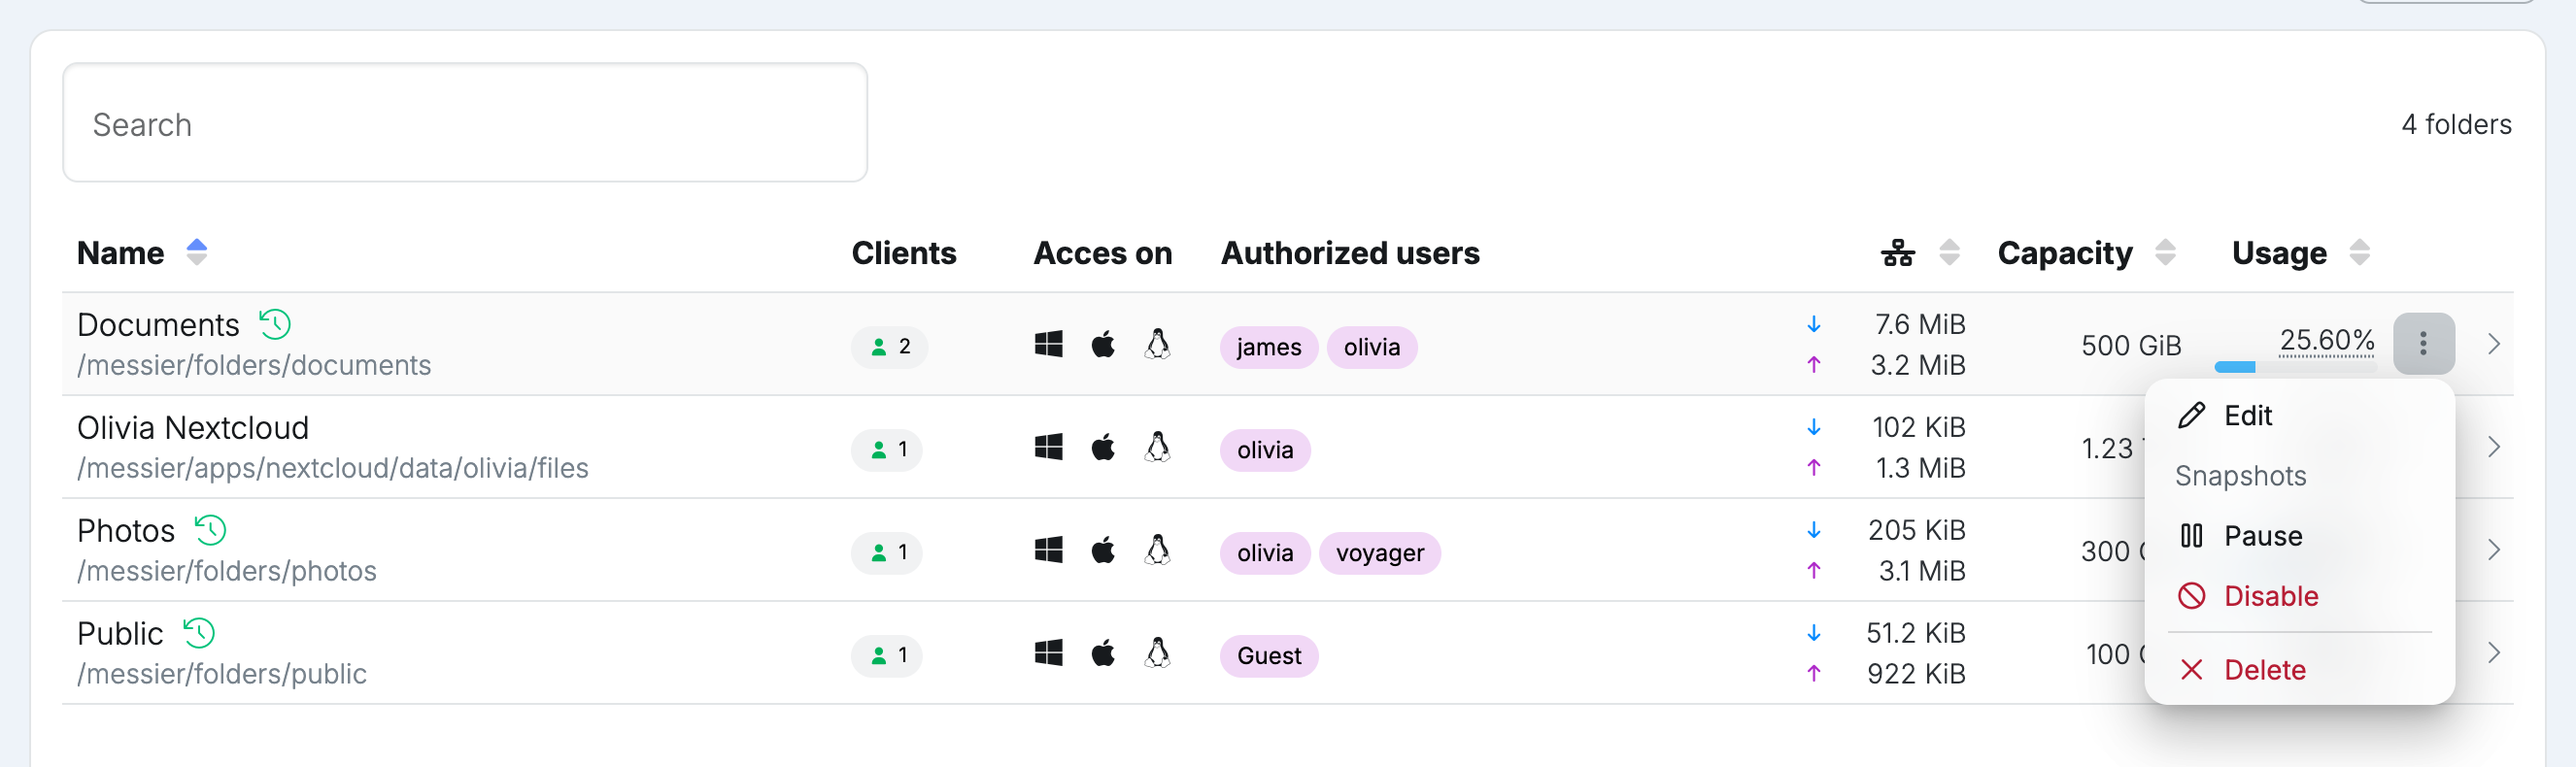
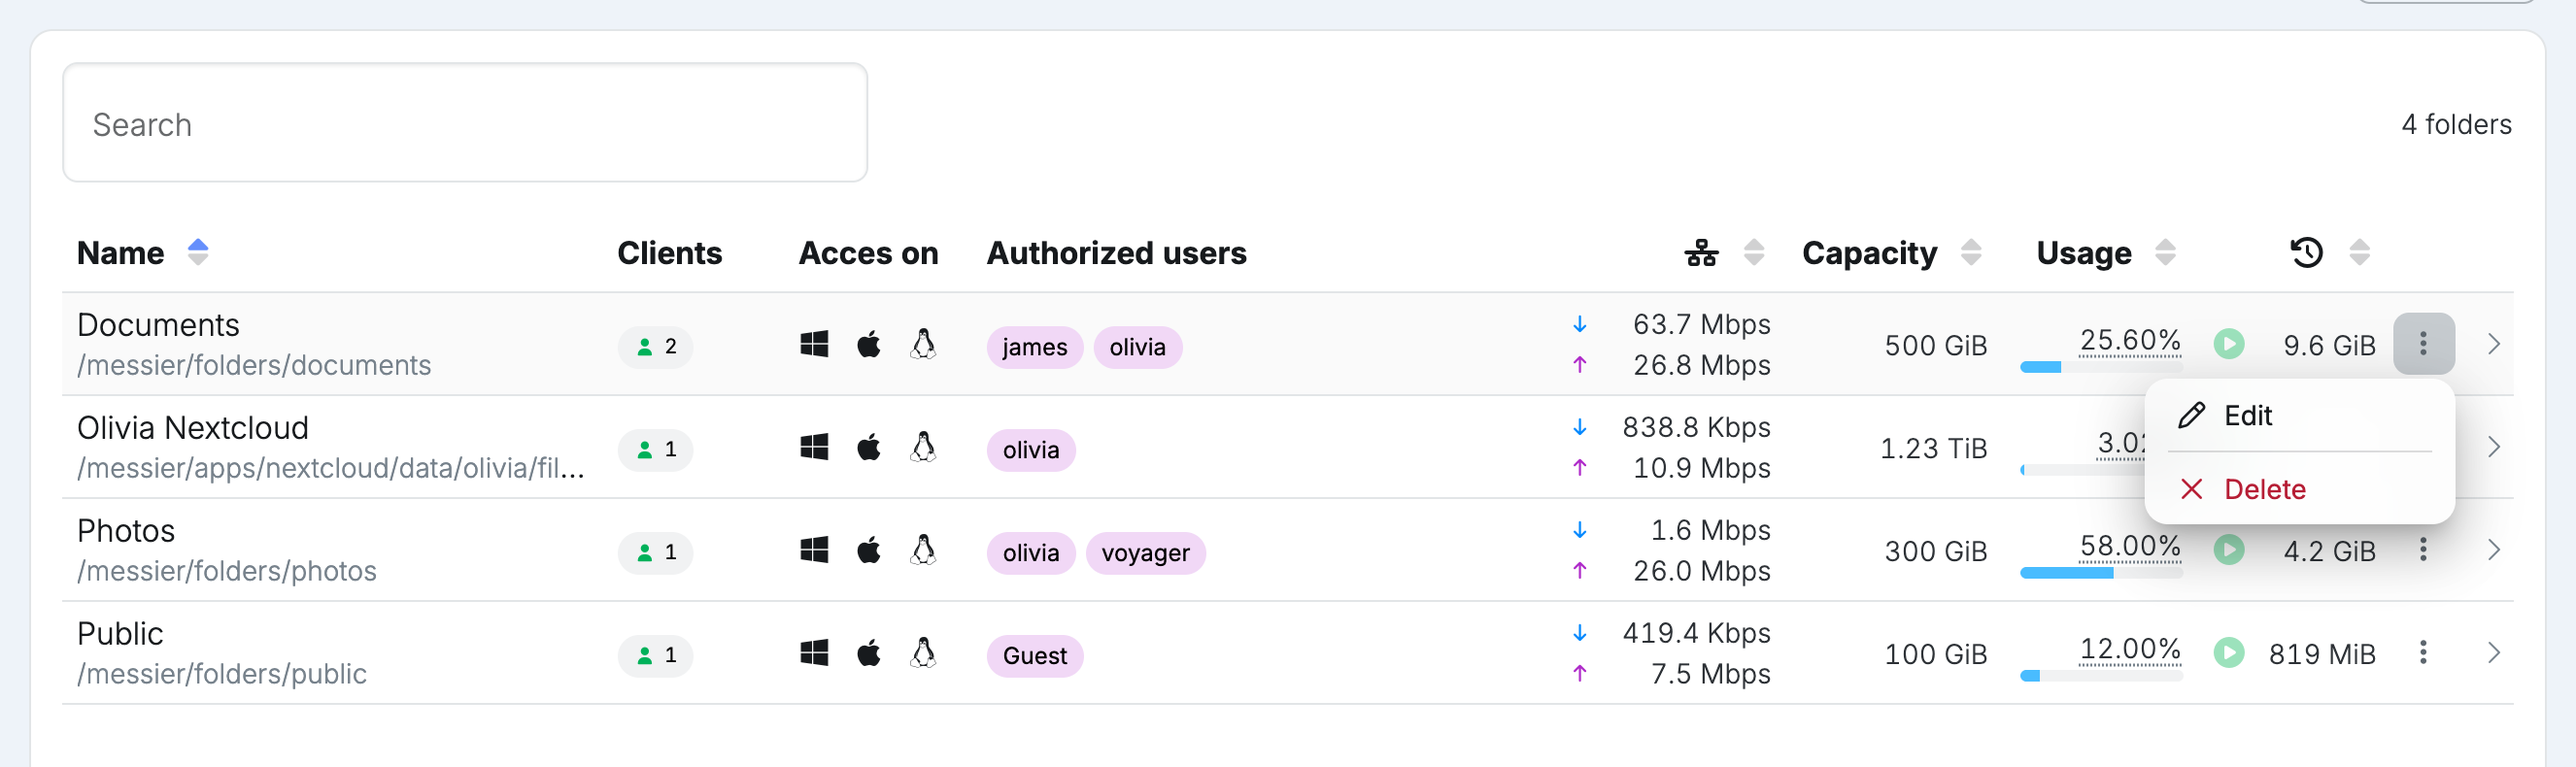
docs(folders): snapshot pages for folders like apps, with new screenshots of the whole section

diff --git a/src/content/docs/management/resources/folders/index.md b/src/content/docs/management/resources/folders/index.md
@@ -2,16 +2,17 @@
 title: Folders
 description: Shared folders on the node, for the computers on your local network.
 sidebar:
-  order: 6
+  label: Managing folders
+  order: 4
 ---
 
 **Folders** are shared folders on the node that the computers on your local network can open, whether they run Windows, macOS or Linux. Users reach them with their node username and password, unless the folder is open to everyone on the network.
 
-![The Folders page](../../../../assets/management/folders.png)
+![The Folders page](../../../../../assets/management/folders.png)
 
-For each folder, the list shows its name and path, how many computers have it open right now, the users who can reach it, how much data it receives and sends per second, its capacity and how much of it is used. Hover over the number of computers to see who is connected and from which address. The clock icon next to a name shows the state of the folder's [snapshots](#history); hover over it for details. Sort the list by name, traffic, capacity or usage with the arrows in the column headers, and use **Search** to find a folder by its name, path or users.
+For each folder, the list shows its name and path, how many computers have it open right now, the users who can reach it, how much data it receives and sends per second, its capacity, how much of it is used and its [snapshots](/management/resources/folders/snapshots/). Hover over the number of computers to see who is connected and from which address. The icon in the snapshots column says whether snapshots are enabled, paused or disabled, followed by the space they take up; hover over it for details. Sort the list by name, traffic, capacity, usage or snapshots with the arrows in the column headers, and use **Search** to find a folder by its name, path or users.
 
-![Who has a folder open](../../../../assets/management/folders-clients.png)
+![Who has a folder open](../../../../../assets/management/folders-clients.png)
 
 ## Opening a folder
 
@@ -23,7 +24,7 @@ Select the Windows, Apple or Linux icon next to a folder to copy its address for
 
 The address is the [virtual IP](/setup/interface/), the address the node shares with its cluster.
 
-![Copying a folder's address](../../../../assets/management/folders-address.png)
+![Copying a folder's address](../../../../../assets/management/folders-address.png)
 
 When asked, enter your node username and password. A folder marked **Guest** has open access: anyone on your local network can open it and change its files, without a username or password.
 
@@ -51,15 +52,15 @@ Select **New folder**, then enter:
 - **Name:** what the folder is called.
 - **Authorized users:** the users who can reach it. Leave them all unchecked for **Guest**, open access for anyone on your local network.
 - **Capacity:** how much space the folder can take up, in GiB. Only for a new share.
-- **Take snapshots:** keep a [history](#history) of the folder's files. Only for a new share.
+- **Take snapshots:** keep [snapshots](/management/resources/folders/snapshots/) of the folder's files. Only for a new share.
 
-![Adding a folder](../../../../assets/management/folder-create.png)
+![Adding a folder](../../../../../assets/management/folder-create.png)
 
 ### Sharing an existing path
 
 The existing paths are places on the node that already hold files, such as a Nextcloud user's files or a Nextcloud group folder. Sharing one lets you open those files from your computers too.
 
-![Sharing a Nextcloud user's files](../../../../assets/management/folder-create-existing.png)
+![Sharing a Nextcloud user's files](../../../../../assets/management/folder-create-existing.png)
 
 Such a folder has no capacity of its own. It shares the space of the place it lives in, which is the capacity the list shows, while its usage counts only its own files.
 
@@ -67,19 +68,19 @@ Such a folder has no capacity of its own. It shares the space of the place it li
 
 Select a folder in the list to see it in detail.
 
-![A folder in detail](../../../../assets/management/folder-details.png)
+![A folder in detail](../../../../../assets/management/folder-details.png)
 
 - **Usage:** the folder's capacity, how much of it is used and how much is free. **Space saved** shows how much space compression saves. For a folder with snapshots, the bar splits the used space into the folder's **Data** and its **Snapshots**.
 - **Authorized users:** the users who can reach the folder, each with the icons that copy the folder's address for Windows, Apple or Linux. The Apple and Linux addresses include the user's name.
 - **Clients:** the computers that have the folder open right now, with the user, the computer's address and how much data the folder receives from it and sends to it per second.
 
-The **Snapshots** tab shows the state of the folder's [snapshots](#history) and how many it has. Select the arrow in the top left corner to go back to the list.
+The **Snapshots** tab shows the folder's [snapshots](/management/resources/folders/snapshots/) and how many it has. Select the arrow in the top left corner to go back to the list.
 
 ## Editing or deleting a folder
 
 Open a folder's menu in the list:
 
-![A folder's menu](../../../../assets/management/folders-menu.png)
+![A folder's menu](../../../../../assets/management/folders-menu.png)
 
 - **Edit:** change the authorized users, or the capacity of a new share. The name and path stay the same.
 - **Delete:** permanently delete the folder and every file in it.
@@ -87,32 +88,16 @@ Open a folder's menu in the list:
 
 In a folder's details, the pen edits the folder and the menu next to it deletes or removes it.
 
-![Editing a folder](../../../../assets/management/folder-edit.png)
+![Editing a folder](../../../../../assets/management/folder-edit.png)
 
 While a change is being applied, a spinning gear takes the place of the menu.
 
-## History
+## Snapshots
 
-A new share is part of the pool's [snapshots](/management/system/storage/#usage), its automatic history of your files, unless **Take snapshots** was cleared when it was added. The clock icon next to its name is green while snapshots are enabled, orange while they are paused and grey when they are disabled.
-
-To change that, open the folder's menu and choose under **Snapshots**:
-
-- **Pause:** stop taking new snapshots. The ones already taken are kept.
-- **Disable:** stop taking snapshots and delete the ones already taken, after you confirm.
-- **Resume** or **Enable:** take snapshots again.
-
-The same choices are buttons on the **Snapshots** tab of the folder's details.
-
-![A folder's snapshots](../../../../assets/management/folder-snapshots.png)
-
-:::caution
-Disabling snapshots permanently deletes every snapshot of the folder. Without them, files that are deleted, overwritten or encrypted by mistake cannot be recovered. To keep the existing snapshots, pause them instead.
-:::
-
-A folder on an existing path has no snapshots of its own. Its history is that of the place it lives in.
+A new share keeps snapshots of its own, unless **Take snapshots** was cleared when it was added. A folder on a Nextcloud path has Nextcloud's snapshots, and its files can be searched, browsed and restored from the folder itself. See [Snapshots](/management/resources/folders/snapshots/).
 
 ## On the Dashboard
 
 The **Dashboard** lists the folders too, with a bar showing how full each one is.
 
-![Folders on the Dashboard](../../../../assets/management/folders-dashboard.png)
+![Folders on the Dashboard](../../../../../assets/management/folders-dashboard.png)

diff --git a/src/content/docs/management/resources/folders/snapshots/index.md b/src/content/docs/management/resources/folders/snapshots/index.md
@@ -1,0 +1,57 @@
+---
+title: Snapshots
+description: A folder's snapshots, which folders have them, and getting files back from a Nextcloud user's folder.
+sidebar:
+  label: Restore points
+  order: 5
+---
+
+A snapshot is a read-only copy of a folder's files as they were at one moment. The node takes them by itself and removes old ones, following the pool's [snapshot schedule](/management/system/storage/#usage). A snapshot only takes up space for what has changed since it was taken, so keeping many of them costs little.
+
+Open a folder's details and select **Snapshots**.
+
+## Snapshotting
+
+The top of the tab says whether the node takes snapshots of the folder, and how many of each kind it keeps. The dot on the **Snapshots** tab and the icon in the list show the same state: green for enabled, orange for paused and grey for disabled.
+
+Where the snapshots come from depends on the folder.
+
+### A new share
+
+A folder added as a new share has snapshots of its own. The buttons next to the state change them:
+
+- **Pause:** stop taking new snapshots. The ones already taken are kept.
+- **Disable:** stop taking snapshots and delete the ones already taken, after you confirm.
+- **Resume** or **Enable:** take snapshots again.
+
+![The Documents folder's snapshots](../../../../../../assets/management/folder-snapshots.png)
+
+:::caution
+Disabling snapshots permanently deletes every snapshot of the folder. Without them, files that are deleted, overwritten or encrypted by mistake cannot be recovered. To keep the existing snapshots, pause them instead.
+:::
+
+### A Nextcloud user's folder
+
+A folder that shares a Nextcloud user's files has Nextcloud's snapshots. The tab shows Nextcloud's state, says it follows Nextcloud, and has no buttons: change it in [Nextcloud's snapshots](/management/resources/apps/snapshots/#snapshotting).
+
+![The snapshots of Olivia's Nextcloud folder](../../../../../../assets/management/folder-share-snapshots.png)
+
+Below the state are Nextcloud's restore points, with the same [timeline](/management/resources/apps/snapshots/#timeline) as Nextcloud's own tab. Choose a restore point by its dot, by dragging the slider, or with **Newer** and **Older**.
+
+A folder that shares a Nextcloud group folder shows Nextcloud's state too, but its files can only be searched, browsed and restored from [Nextcloud's snapshots](/management/resources/apps/snapshots/#getting-files-back).
+
+### Downloads
+
+A folder that shares Downloads has no snapshots.
+
+## Getting files back
+
+From a Nextcloud user's folder, the files in its restore points can be searched, browsed and restored, and everything stays inside that folder: the other users' files, the trash and the group folders do not show up.
+
+| You know | Start here |
+| --- | --- |
+| Roughly when things were still right | [Browse files](/management/resources/folders/snapshots/browse/) of that restore point |
+| The name of the file, but not when it went missing | [Search](/management/resources/folders/snapshots/search/) every restore point at once |
+| Which version you want | [Restore](/management/resources/folders/snapshots/restore/) it, or download it to your computer |
+
+A folder does not roll back. To put all of Nextcloud back, see [Rolling back](/management/resources/apps/snapshots/rollback/).

diff --git a/src/content/docs/management/resources/folders/snapshots/restore.md b/src/content/docs/management/resources/folders/snapshots/restore.md
@@ -1,0 +1,22 @@
+---
+title: Restoring files
+description: Putting earlier and deleted files back into a Nextcloud user's folder.
+sidebar:
+  order: 8
+---
+
+Restoring copies files out of a restore point and back into the folder, where they show up in Nextcloud by themselves. From a folder, files can only be restored into that same folder or the folders inside it.
+
+## Restoring one file
+
+In the [search results](/management/resources/folders/snapshots/search/), select the restore button next to a version. **Restore to** starts at the folder, with the folder the file was in already selected.
+
+![Restoring Budget 2026.xlsx to Documents](../../../../../../assets/management/folder-share-snapshots-restore.png)
+
+If the file was not there anymore, it is restored straight away. If a file with that name is there, you choose to [keep both or overwrite](/management/resources/apps/snapshots/restore/#the-folder-already-has-a-file-with-that-name).
+
+## Restoring a selection
+
+In [Browse files](/management/resources/folders/snapshots/browse/), select what you want and then **Restore**. Choose a folder inside the folder and select **Restore**. Everything arrives there in a new folder of its own, named after the restore point's date, as described in [Restoring a selection](/management/resources/apps/snapshots/restore/#restoring-a-selection).
+
+Both ways can also [restore to a new folder](/management/resources/apps/snapshots/restore/#restoring-to-a-new-folder).

diff --git a/src/content/docs/management/resources/folders/snapshots/browse.md b/src/content/docs/management/resources/folders/snapshots/browse.md
@@ -1,0 +1,18 @@
+---
+title: Browsing files
+description: Looking inside a restore point of a Nextcloud user's folder, and selecting files to download or restore.
+sidebar:
+  order: 6
+---
+
+**Browse files** opens a Nextcloud user's folder as it was at one restore point.
+
+1. Open the folder's details and select **Snapshots**.
+2. Choose a restore point on the timeline.
+3. Select **Browse files**.
+
+![Olivia's Documents as they were on 1 August](../../../../../../assets/management/folder-share-snapshots-browse.png)
+
+It opens at the folder itself, with its name at the start of the path, and stays inside it: there is no way up to the other users. Paths further down, such as where a moved file is now, start with the folder's name too.
+
+Everything else works as in Nextcloud's **Browse files**: the **Now** column with what [changed since](/management/resources/apps/snapshots/browse/#what-changed-since-then), the [filter](/management/resources/apps/snapshots/browse/#showing-only-what-changed) for what changed, [selecting](/management/resources/apps/snapshots/browse/#selecting-files-and-folders) files and folders, [downloading](/management/resources/apps/snapshots/browse/#downloading-the-selection) them and [restoring](/management/resources/folders/snapshots/restore/#restoring-a-selection) them.

diff --git a/src/content/docs/management/resources/folders/snapshots/search.md b/src/content/docs/management/resources/folders/snapshots/search.md
@@ -1,0 +1,16 @@
+---
+title: Searching files
+description: Finding earlier and deleted versions of the files in a Nextcloud user's folder, across every restore point.
+sidebar:
+  order: 7
+---
+
+Search looks through every restore point at once, for earlier and deleted versions of the files in a Nextcloud user's folder.
+
+Type part of a file's name, or of a folder it is in, into **Search in snapshots** on the folder's **Snapshots** tab and press Enter.
+
+![Searching Olivia's folder for "budget"](../../../../../../assets/management/folder-share-snapshots-search.png)
+
+Only the files inside the folder are searched. Files the user has in their Nextcloud trash, other users' files and the group folders are left out; search Nextcloud's own **Snapshots** to find those.
+
+The results, the filters, **Load more** and **Clear** work as in [Nextcloud's search](/management/resources/apps/snapshots/search/). Each version can be [opened in Browse files](/management/resources/apps/snapshots/search/#opening-a-result-in-browse-files), [downloaded](/management/resources/apps/snapshots/search/#downloading-files-and-folders) or [restored](/management/resources/folders/snapshots/restore/#restoring-one-file).

diff --git a/src/content/docs/management/resources/apps/snapshots/index.md b/src/content/docs/management/resources/apps/snapshots/index.md
@@ -64,6 +64,8 @@ Nextcloud's restore points can be opened, to get back the files people keep in i
 
 The two meet in the middle: every search result can be opened in **Browse files**, at its folder and its date.
 
+A Nextcloud user's files that are shared as a [folder](/management/resources/folders/snapshots/) can be searched, browsed and restored from that folder too, limited to that user's files.
+
 The node catalogues the files in Nextcloud's snapshots by itself, every hour at ten past. Searching, and what **Browse files** says about changes, both rely on that catalogue, so the newest changes show up after its next run.
 
 Other apps have restore points and a timeline, but their files cannot be browsed, searched or restored from here.
